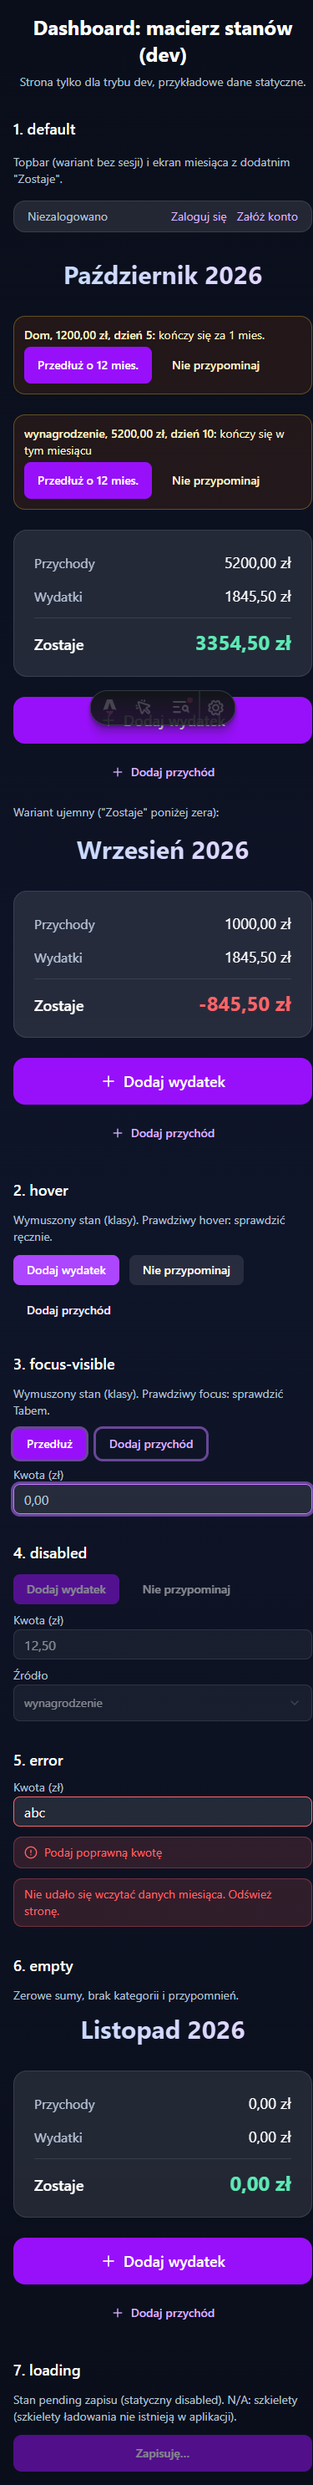
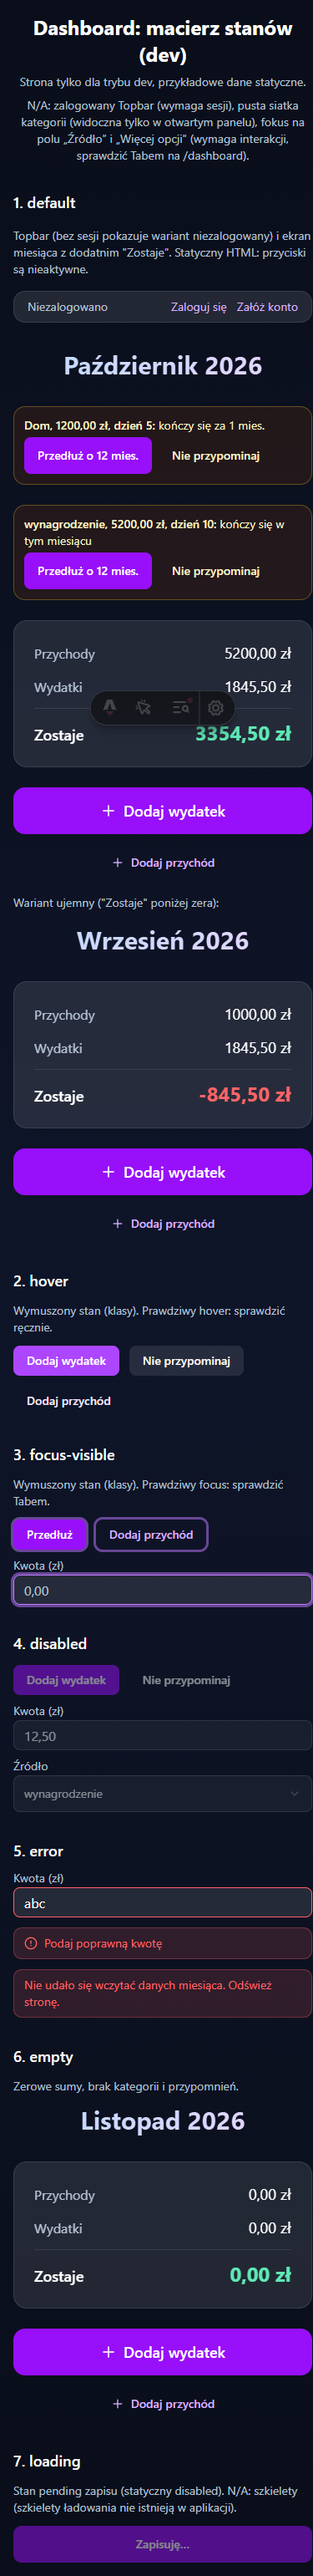
fix(dashboard-design-tokens): poprawki z przeglądu fazy 4
Strona dev/dashboard-states renderowana jako statyczny HTML (bez
client:load, przyciski nie mogą wywołać API); opis komórek N/A na
stronie; odświeżone zrzuty, raport przeglądu fazy 4 i SHA fazy 4.

Changed region(s): [[0.0293, 0.0, 1.0, 0.9899], [0.8213, 0.959, 0.9387, 0.9899]]

diff --git a/context/changes/dashboard-design-tokens/reviews/impl-review-phase-4.md b/context/changes/dashboard-design-tokens/reviews/impl-review-phase-4.md
@@ -1,0 +1,56 @@
+<!-- IMPL-REVIEW-REPORT -->
+# Implementation Review: Dashboard design tokens
+
+- **Plan**: context/changes/dashboard-design-tokens/plan.md
+- **Scope**: Phase 4 of 5
+- **Reviewed phases**: 4
+- **Date**: 2026-10-15
+- **Verdict**: NEEDS ATTENTION
+- **Findings**: 0 critical 2 warnings 1 observations
+
+## Verdicts
+
+| Dimension | Verdict |
+|-----------|---------|
+| Plan Adherence | WARNING |
+| Scope Discipline | PASS |
+| Safety & Quality | WARNING |
+| Architecture | PASS |
+| Pattern Consistency | PASS |
+| Success Criteria | PASS |
+
+## Findings
+
+### F1 — Strona dev może zapisać prawdziwe dane, gdy jesteś zalogowany
+
+- **Severity**: ⚠ WARNING
+- **Impact**: 🔎 MEDIUM — real tradeoff; pause to reason through it
+- **Dimension**: Safety & Quality
+- **Location**: src/pages/dev/dashboard-states.astro:75-93,180-188 (`MonthScreen ... client:load` ×3), :74 (`<Topbar />`), :2-3 (komentarz „No session, no Supabase”)
+- **Detail**: Plan wymagał, żeby strona nie dotykała danych. Trzy `MonthScreen` są interaktywne (`client:load`), więc na stronie działa „Dodaj przychód” → „Zapisz”, a w przeglądarce z zalogowaną sesją (localhost dzieli ciasteczka) wywoła to `POST /api/incomes` i doda **prawdziwy przychód** do gospodarstwa (przychód nie wymaga ID kategorii). „Przedłuż” i „Nie przypominaj” wyślą zapytania z fałszywym ID `r1` (API odrzuci je walidacją `z.uuid()`, ale i tak trafiają do serwera). `Topbar` przy zalogowanym użytkowniku czyta nazwę gospodarstwa z Supabase i pokazuje wariant zalogowany, więc komentarz w pliku i podpis „wariant bez sesji” są w tym przypadku nieprawdziwe.
+- **Fix**: Usunąć `client:load` z trzech `MonthScreen` — React wyrenderuje sam HTML bez skryptu, przyciski będą nieaktywne, a zrzuty wyglądają tak samo; poprawić komentarz i podpis Topbara („bez sesji, gdy niezalogowany”).
+  - Strength: Strona służy tylko do zrzutów; statyczny HTML całkowicie usuwa możliwość zapisu i dodatkowo przyspiesza ładowanie.
+  - Tradeoff: Nie da się na niej otworzyć panelu `EntrySheet`; panel i tak nie był widoczny na zrzutach.
+  - Confidence: HIGH — `DisabledSelectDemo` już działa w ten sposób (SSR bez hydratacji).
+  - Blind spot: Nie sprawdzono ręcznie, czy `MonthScreen` bez hydratacji renderuje się identycznie (powinien — to ten sam SSR).
+- **Decision**: FIXED — usunięte client:load (statyczny HTML, 0 wysp), poprawiony komentarz i podpis Topbara
+
+### F2 — Komórki N/A nie są opisane na stronie
+
+- **Severity**: ⚠ WARNING
+- **Impact**: 🏃 LOW — quick decision; fix is obvious and narrowly scoped
+- **Dimension**: Plan Adherence
+- **Location**: src/pages/dev/dashboard-states.astro (sekcje 1, 3, 6)
+- **Detail**: Plan: „komórka bez sensu = N/A z powodem”. Na stronie opisane jest tylko N/A dla szkieletów ładowania (sekcja 7). Pozostałe N/A wymienił tylko podagent w raporcie: zalogowany wariant Topbara (wymaga sesji), pusta siatka kategorii (widoczna tylko w zamkniętym panelu), fokus na `Select` i „Więcej opcji” (wymaga interakcji). Kto otworzy stronę lub zrzut, nie dowie się o nich.
+- **Fix**: Dodać pod nagłówkiem strony jedną linię „N/A:” z tymi trzema pozycjami i powodem.
+- **Decision**: FIXED — linia N/A z powodami pod nagłówkiem strony
+
+### F3 — Kod strony dev trafia do buildu produkcyjnego
+
+- **Severity**: 👁 OBSERVATION
+- **Impact**: 🏃 LOW — quick decision; fix is obvious and narrowly scoped
+- **Dimension**: Architecture
+- **Location**: src/pages/dev/dashboard-states.astro:14-15
+- **Detail**: W produkcji strona zwraca 404 (zweryfikowane), ale jej moduł jest w buildzie serwera i wykonuje się przy każdym wejściu na adres. Nie ujawnia danych (pokazuje tylko „Nie znaleziono.”), więc ryzyko jest pomijalne.
+- **Fix**: Zostawić; jeśli przybędzie stron dev, rozważyć wykluczenie katalogu `src/pages/dev/` z buildu produkcyjnego.
+- **Decision**: SKIPPED

diff --git a/context/changes/dashboard-design-tokens/plan.md b/context/changes/dashboard-design-tokens/plan.md
@@ -305,12 +305,12 @@ Brak danych do migracji. Wycofanie: revert commitów faz; `<html class="dark">` 
 
 #### Automated
 
-- [x] 4.1 Kitchen-sink zwraca 404 w buildzie produkcyjnym (`npm run preview`)
+- [x] 4.1 Kitchen-sink zwraca 404 w buildzie produkcyjnym (`npm run preview`) — 481a479
 
 #### Manual
 
-- [x] 4.2 7-stanowa macierz: każda komórka pokazana lub N/A z powodem
-- [x] 4.3 Zrzuty kitchen-sink desktop i 390 px zapisane w folderze zmiany
+- [x] 4.2 7-stanowa macierz: każda komórka pokazana lub N/A z powodem — 481a479
+- [x] 4.3 Zrzuty kitchen-sink desktop i 390 px zapisane w folderze zmiany — 481a479
 
 ### Phase 5: Zabezpieczenie
 
